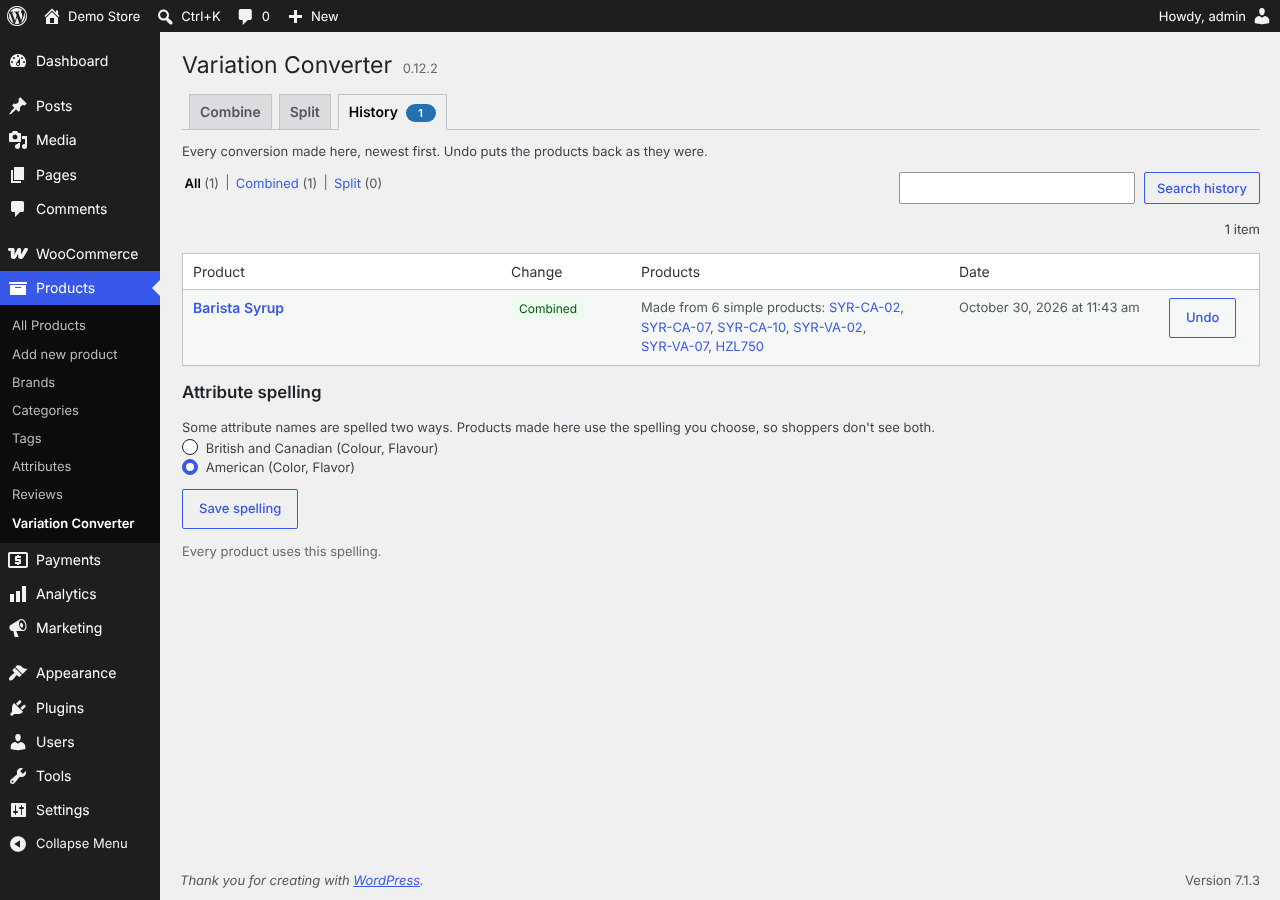
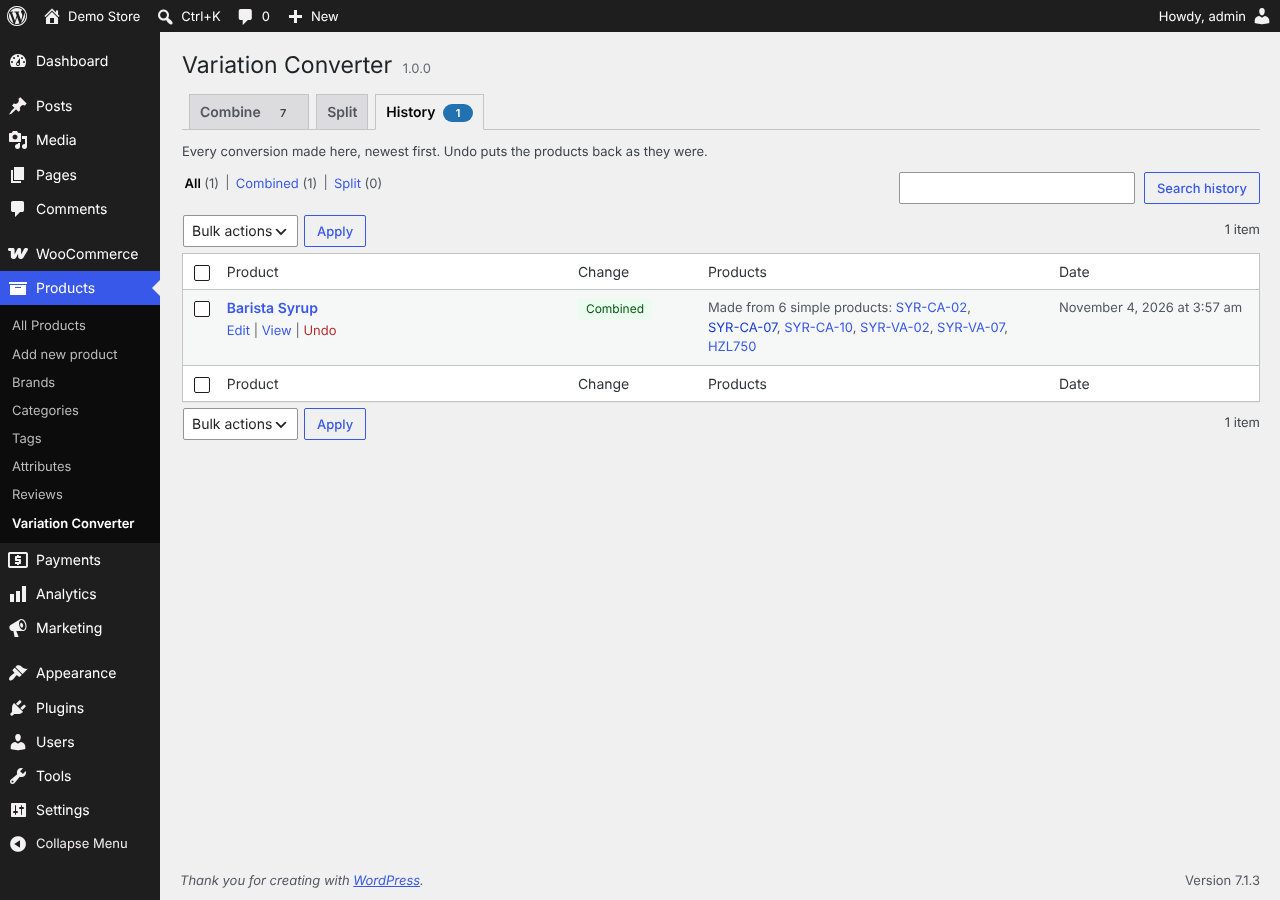
Release 1.0.0: version bump, changelog and upgrade notice, new screenshots
Retakes the listing screenshots and the site's images for the current toolbars.
screenshots.mjs waits for the reload after a whole-group create and hovers the
History row so Undo shows.

Claude-Session: https://claude.ai/code/session_01KvoELPTb9Qi2miVjMVnWNr

diff --git a/site/index.html b/site/index.html
@@ -94,7 +94,7 @@
 					<p>The History tab lists every conversion with an Undo button. Undo removes what the plugin made and brings the originals back with the visibility they had, carrying over current prices and stock so sales made in between aren't lost.</p>
 				</div>
 				<figure class="shot">
-					<img src="images/history.webp" width="1120" height="328" alt="The History tab showing Classic Crew Tee, combined from four simple products, with an Undo button.">
+					<img src="images/history.webp" width="1120" height="420" alt="The History tab showing Barista Syrup, combined from six simple products, with Edit, View and Undo links.">
 				</figure>
 			</li>
 		</ol>
@@ -109,7 +109,7 @@
 			<p>Each checked variation becomes a simple product with its own SKU, prices, stock, weight, dimensions and image, plus the variable product's descriptions, categories and tags. The variable product is hidden, not deleted, and Undo brings it back.</p>
 		</div>
 		<figure class="shot">
-			<img src="images/split.webp" width="1120" height="568" alt="The Split tab with Canvas Apron open, showing two variations to become simple products named Canvas Apron Sand and Canvas Apron Charcoal.">
+			<img src="images/split.webp" width="1120" height="690" alt="The Split tab with Canvas Apron open, showing two variations to become simple products named Canvas Apron Sand and Canvas Apron Charcoal.">
 		</figure>
 	</div>
 </section>

diff --git a/variation-converter-for-woocommerce.php b/variation-converter-for-woocommerce.php
@@ -2,7 +2,7 @@
 /**
  * Plugin Name:       Variation Converter for WooCommerce
  * Description:       Finds groups of simple WooCommerce products that are really one product in several variants ("Classic Tee Black", "Classic Tee Blue") and, for each group you approve, makes one variable product, or splits a variable product into one simple product per variation. The originals are hidden, not deleted, and Undo brings them back.
- * Version:           0.17.1
+ * Version:           1.0.0
  * Requires at least: 6.5
  * Requires PHP:      7.4
  * Requires Plugins:  woocommerce
@@ -18,7 +18,7 @@ if ( ! defined( 'ABSPATH' ) ) {
 }
 
 define( 'VARCONV_FILE', __FILE__ );
-define( 'VARCONV_VERSION', '0.17.1' );
+define( 'VARCONV_VERSION', '1.0.0' );
 
 require_once __DIR__ . '/includes/scan.php';
 require_once __DIR__ . '/includes/create.php';
